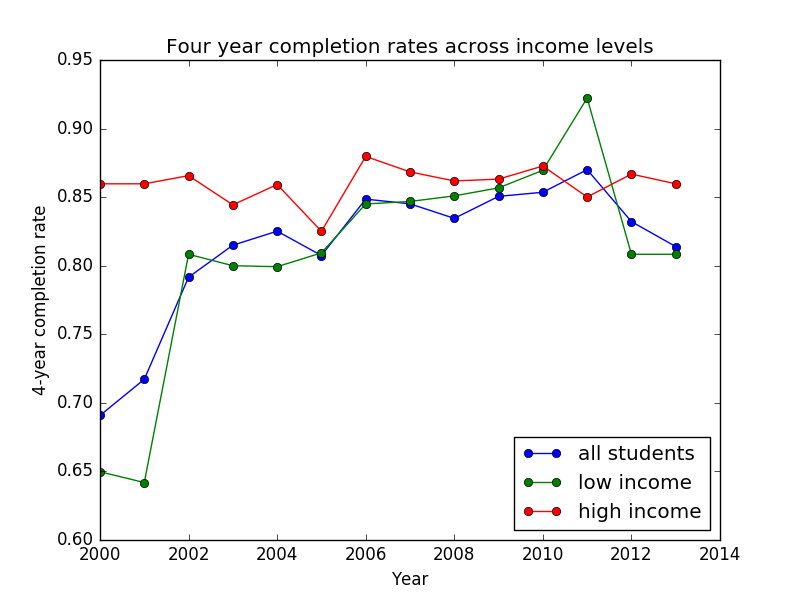
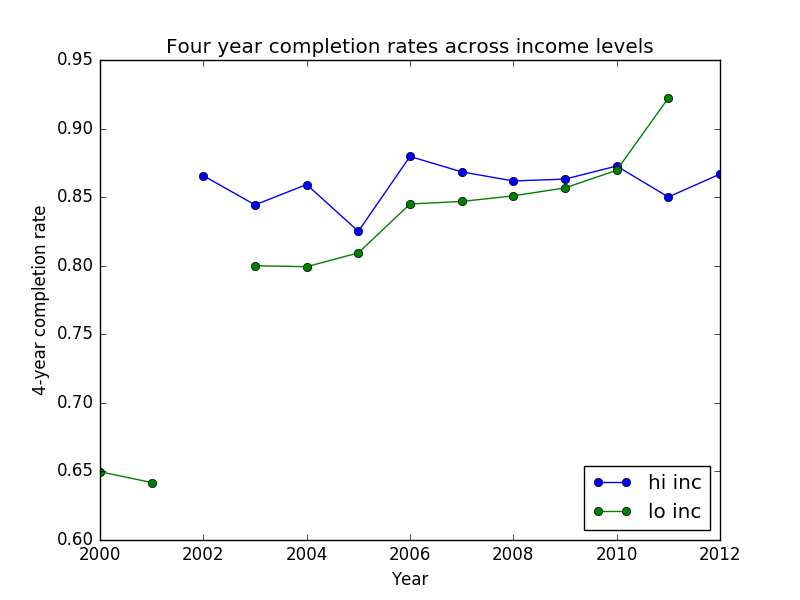
filtering and plotting matches

diff --git a/analysis.py b/analysis.py
@@ -1,5 +1,6 @@
 import sqlite3
 import pandas as pd
+import numpy as np
 import matplotlib.pyplot as plt
 from helpers import get_matches, plot_dendrogram, plot_rates
 
@@ -9,7 +10,13 @@ from helpers import get_matches, plot_dendrogram, plot_rates
 Compare low-income enrollment or completion at Wash U vs. similar schools based
 on admissions, SAT/ACT scores, something else-- Wash U considers self elite but
 I know low-income enrollment is a problem. Match with other schools (clustering?)
-on SAT/ACT scores, admission rates, tuition?
+on SAT/ACT scores, admission rates, tuition. Compare mean completion rates.
+
+Filter to get only schools with same rates in 1999/2000 whatever earliest year is.
+See if others are trending up/down.
+
+Brainstorm possible predictors and try to fit a linear regression. Or advise
+some qualitative research/domain knowledge to identify possible predictors.
 '''
 
 #going to return a lot of schools to then cluster and find those similar to WashU:
@@ -41,22 +48,43 @@ SELECT  UNITID,
         LO_INC_COMP_ORIG_YR4_RT, -- 4 yr completion rate for low income students
         HI_INC_COMP_ORIG_YR4_RT -- high income students
 FROM Scorecard
-WHERE UNITID in {0} -- add subquery to get for all ~150 match schools
+WHERE UNITID in ({0})
+/*WHERE UNITID in (110404, 112260, 115409, 121345, 123165, 123961, 130697, 130794,
+                139658, 144050, 147767, 161004, 162928, 164465, 164924, 166027,
+                166683, 167358, 168148, 168218, 168342, 173258, 179867, 182670,
+                186131, 189097, 190150, 190372, 190415, 191515, 193900, 197133,
+                197221, 198419, 204501, 211440, 212911, 215062, 216287, 217156,
+                221999, 227757, 230959, 234207, 243744, 441982)*/
 ORDER BY Year;
 
 '''
 
-query_perf_inc='''
-SELECT  COMP_ORIG_YR4_RT,
-        LO_INC_COMP_ORIG_YR4_RT,
-        -- MD_INC_COMP_ORIG_YR4_RT, -- privacy suppressed in almost every case
-        HI_INC_COMP_ORIG_YR4_RT,
-        Year
+query_perf_wu='''
+SELECT  UNITID,
+        INSTNM,
+        Year,
+        PCTPELL, -- pct of student body with Pell grants
+        COMP_ORIG_YR4_RT, -- overall 4 yr completion rate
+        C150_4_WHITE, -- 4 yr completion rate for whites
+        C150_4_BLACK,
+        C150_4_HISP,
+        LO_INC_COMP_ORIG_YR4_RT, -- 4 yr completion rate for low income students
+        HI_INC_COMP_ORIG_YR4_RT
 FROM Scorecard
 WHERE UNITID=179867 AND Year > 1999
 ORDER BY Year;
 '''
-# raw numbers (denoms):
+
+query_raw_nums='''
+SELECT OVERALL_YR4_N
+       , HI_INC_YR4_N
+       , MD_INC_YR4_N
+       , LO_INC_YR4_N
+FROM Scorecard
+WHERE UNITID=179867 AND Year > 1999
+ORDER BY Year;
+'''
+# raw numbers (denoms):  --> try to impute Mid income? Check denoms add up
 # OVERALL_YR4_N
 # LO_INC_YR4_N
 # MD_INC_YR4_N
@@ -76,14 +104,18 @@ If leaders: use to our advantage! If not, what can we learn from others?
 
 
 if __name__ == '__main__':
-    conn = sqlite3.connect('college.sqlite') #must be in home directory
+    conn = sqlite3.connect('college.sqlite')
+
+    wu = pd.read_sql(query_perf_wu, conn)
+
     all_schools = pd.read_sql(query_school_matches, conn)
-    # matches = get_matches(all_schools)
-    # ids = matches['UNITID'].tolist()
-    #
-    # placeholder= '?' # For SQLite. See DBAPI paramstyle.
-    # placeholders= ', '.join(placeholder for _ in ids)
-    # c = conn.cursor()
-    # c.execute(query_perf.format(placeholders), ids) ## see if this works?
-    ## pandas alternative:
-    #match_school_info = pd.read_sql(query_perf.format(placeholders), params=ids)
+    matches = get_matches(all_schools, 'kmeans')
+    ids = matches['unitid'].tolist()
+    print len(ids)
+    ## Build SQL query to get all match schools
+    placeholder = '?' # For SQLite. See DBAPI paramstyle.
+    placeholders = ', '.join(placeholder for _ in ids)
+    # pandas alternative:
+    match_school_info = pd.read_sql(query_perf.format(placeholders), conn, params=ids)
+    #average_matches = match_school_info.groupby('Year')[['HI_INC_COMP_ORIG_YR4_RT', 'LO_INC_COMP_ORIG_YR4_RT', 'COMP_ORIG_YR4_RT']].aggregate(np.sum)
+    #print average_matches

diff --git a/helpers.py b/helpers.py
@@ -12,30 +12,29 @@ def clean_school_data(df, complete=False, impute=False):
     '''
     Impute missing values in schools data frame
     '''
+    dfc = df.copy()
+    dfc.columns = map(str.lower, df.columns)
     if complete:
-        df.rename(columns = {'COMP_ORIG_YR4_RT' : 'all_students_rate',\
-                    'LO_INC_COMP_ORIG_YR4_RT': 'low_income_rate', \
-                    'HI_INC_COMP_ORIG_YR4_RT' : 'high_income_rate', \
-                    'Year' :'year'}, inplace=True)
-        df.loc[df['low_income_rate'] == 'PrivacySuppressed', 'low_income_rate'] = None
-        df.loc[df['high_income_rate'] == 'PrivacySuppressed', 'high_income_rate'] = None
+        dfc.loc[dfc['lo_inc_comp_orig_yr4_rt'] == 'PrivacySuppressed', 'lo_inc_comp_orig_yr4_rt'] = None
+        dfc.loc[dfc['hi_inc_comp_orig_yr4_rt'] == 'PrivacySuppressed', 'hi_inc_comp_orig_yr4_rt'] = None
 
     if impute:
-        df = df.fillna(df.mean()) # don't impute for plotting!
-    return df
+        dfc = dfc.fillna(dfc.mean()) # don't impute for plotting!
+    return dfc
 
-def plot_rates(df, cols):
+def filter_dataframe(df, col):
     '''
-    Given dataframe with rates across income levels, plot rates over years
-    (in 'year' column)
+    Filter dataframe based on column to only rows where column is not null
     '''
-    for col in cols:
-        lab = " ".join(col.split('_')[:2])
-        plt.plot(df['year'], df[col], '-o', label=lab)
-    plt.xlabel('Year')
-    plt.ylabel('4-year completion rate')
-    plt.title('Four year completion rates across income levels')
-    plt.legend(loc=4)
+    dfc = df.copy()
+    dfc = dfc[dfc[col].notnull()]
+    dfc.loc[ :, col] = dfc[col].astype(float)
+    return dfc
+
+def group_dataframe():
+    #? worth it
+    pass
+
 
 def make_kmeans(df): # SO much better!
     '''
@@ -79,16 +78,47 @@ def plot_dendrogram(matr, fname=None):
     if fname != None:
         plt.savefig(fname)
 
+def plot_rates(df, cols, fname=None):
+    '''
+    Given dataframe with rates across income levels, plot rates over years
+    (in 'year' column)
+    '''
+    for col in cols:
+        lab = " ".join(col.split('_')[:2])
+        plt.plot(df['year'], df[col], '-o', label=lab)
+    plt.xlabel('Year')
+    plt.ylabel('4-year completion rate')
+    plt.title('Four year completion rates across income levels')
+    plt.legend(loc=4)
+
+    if fname != None:
+        plt.savefig(fname)
+
 def get_matches(df, method, n=20, ID=179867):
     clean = clean_school_data(df, impute=True)
 
     if method == 'hier':
         _, labels = make_hier_clusters(clean, n)
 
-    elif method == 'k':
+    elif method == 'kmeans':
         _, labels = make_kmeans(clean)
 
-    idx = clean[clean['UNITID'] == ID].index[0]
+    idx = clean[clean['unitid'] == ID].index[0]
     match_idx = np.where(labels == labels[idx])[0] # where returns a tuple
     match_df = clean.iloc[match_idx, :]
     return match_df
+
+def plot_average_rates(df):
+    df_hi = filter_dataframe(df, 'hi_inc_comp_orig_yr4_rt')
+    df_low = filter_dataframe(df, 'lo_inc_comp_orig_yr4_rt')
+    high_incomes = df_hi.groupby('year')['hi_inc_comp_orig_yr4_rt'].mean()
+    low_incomes = df_low.groupby('year')['lo_inc_comp_orig_yr4_rt'].mean()
+    plt.plot(high_incomes, '-o', label='High income')
+    plt.plot(low_incomes, '-o', label='Low income')
+    plt.xlabel('Year')
+    plt.ylabel('4-year completion rate')
+    plt.title('Average four year completion rates across similar schools')
+    plt.legend(loc=4)  
+
+## imputing n:
+# wu['sum_inc_levels'] = wu[['HI_INC_YR4_N', 'MD_INC_YR4_N', 'LO_INC_YR4_N']].sum(axis = 1, skipna=True)
